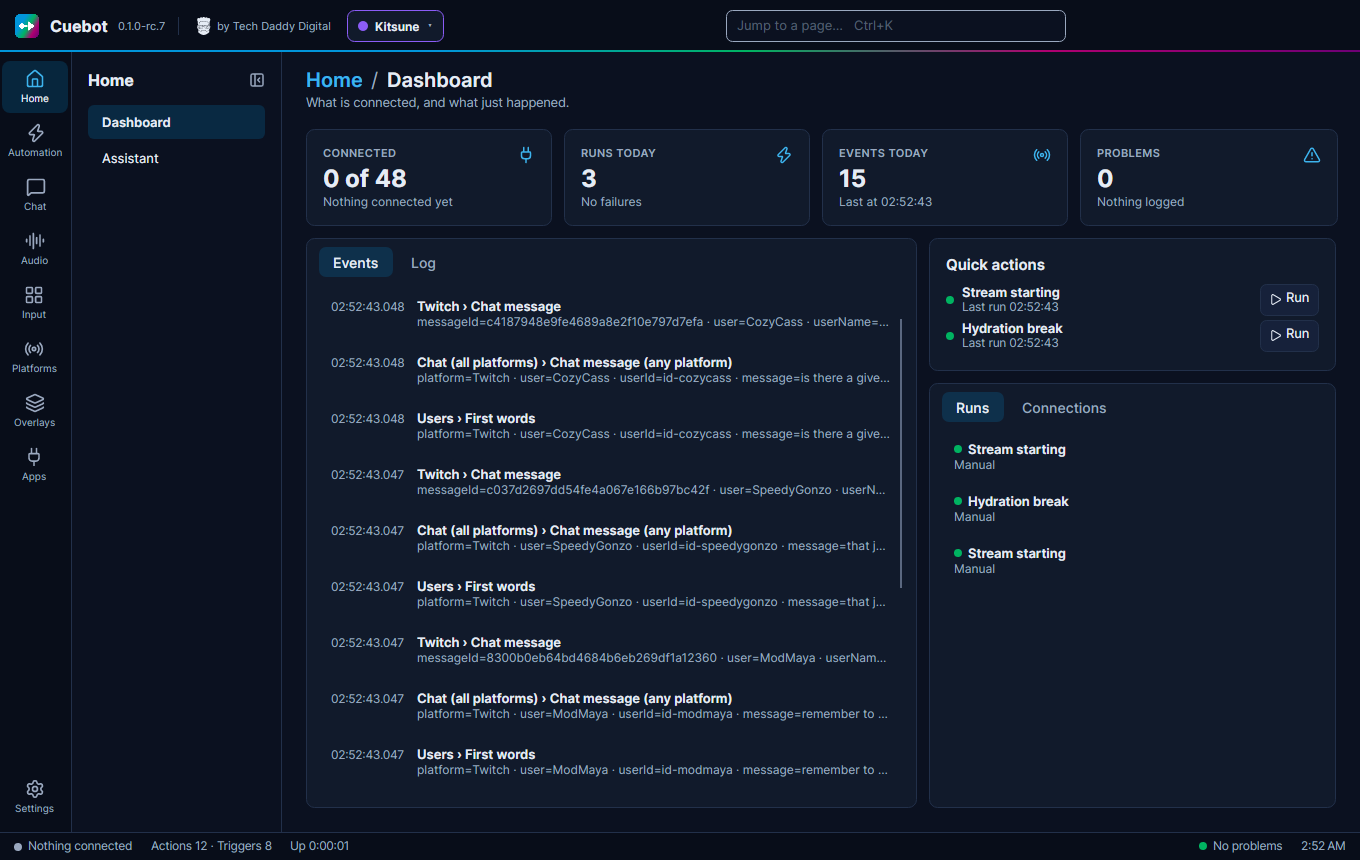
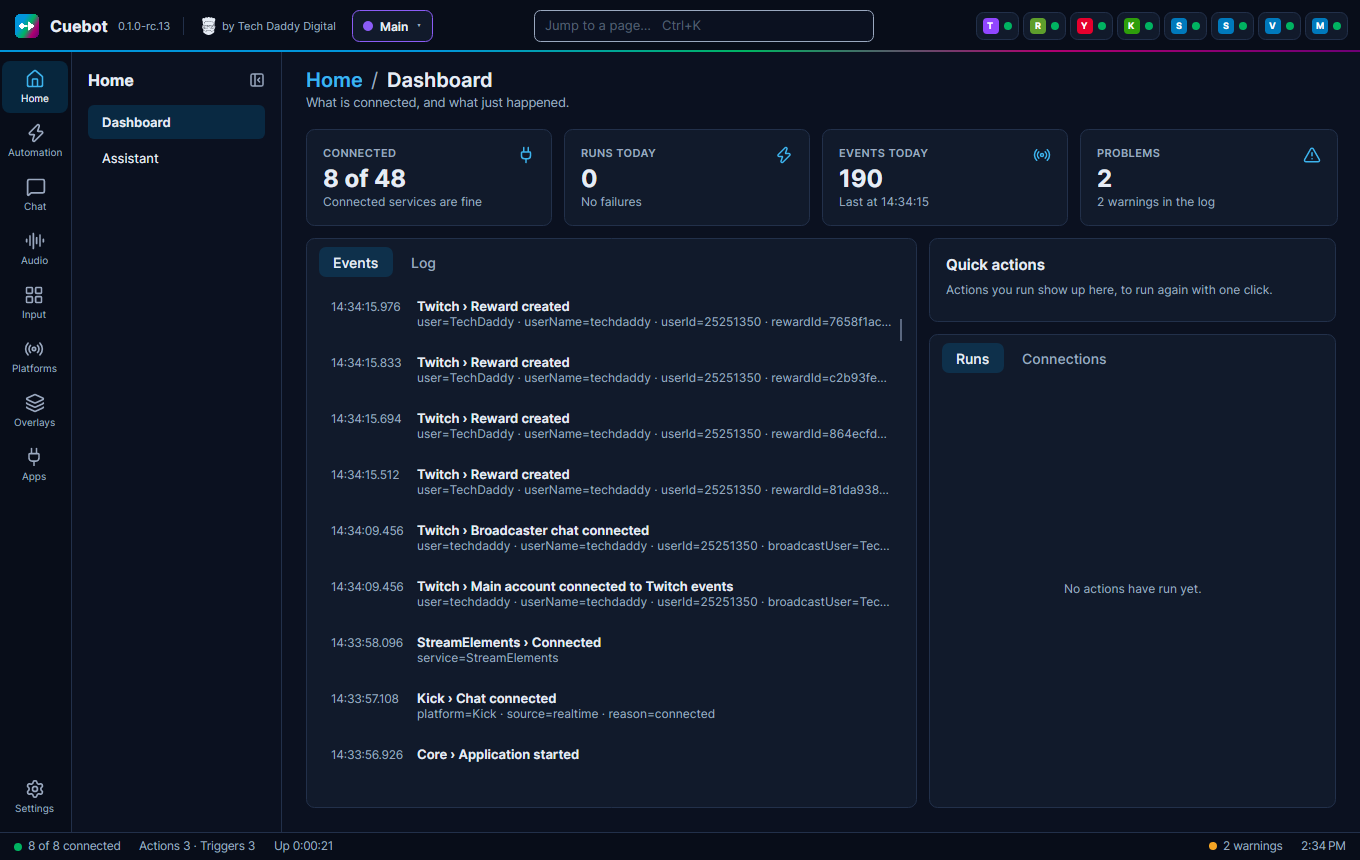
Docs: signed-in screenshots; top bar connection chips no longer overflow
Screenshots:
- New pictures taken with a signed-in Cuebot 0.1.0-rc.13: Twitch
  (techdaddy), Kick (tddigital), YouTube, Rumble, Streamlabs,
  StreamElements and VTube Studio.
- They replace the dashboard, the Twitch page and its tabs, and the
  Kick, YouTube and Rumble pages.
- Also replaced: the Kick rewards, VTube Studio and Streamlabs cards,
  and the Donations page.
- Kris reviewed them before publishing.
- The reward pictures show disabled sample rewards. They were made for
  the pictures and deleted right after; viewers never saw them.

New tests/Cuebot.UiTests/SignedInScreenshots, run by hand with
CUEBOT_SIGNED_IN_DATA and CUEBOT_SCREENSHOT_OUT. It opens a folder
someone signed in to, with the app's keyring key store, and connects
everything. It uses no demo data and runs no actions or fake events, so
nothing reaches the real channels. It saves every page, tab and card.
CUEBOT_SAMPLE_REWARDS=1 adds disabled sample rewards and always deletes
them.

Bug found in those pictures: with 8 connections, the top bar's chips
spilled over the search box and title and hid the profile switcher.
- With more than 4 connections, chips are small badges; the name is in
  the tooltip.
- Chips that still don't fit are clipped.
- The search box can shrink (160 to 340 px).
- A new test checks that the title, search box and badges don't
  overlap with 9 connections.

Also: the Twitch Rewards tab says "This channel has no rewards yet."
instead of "0 of them were created by Cuebot".
[…]

diff --git a/tests/Cuebot.UiTests/SignedInScreenshots.cs b/tests/Cuebot.UiTests/SignedInScreenshots.cs
@@ -1,0 +1,128 @@
+using Avalonia.Controls;
+using Avalonia.Headless.XUnit;
+using Avalonia.VisualTree;
+using Cuebot.App;
+using Cuebot.App.ViewModels;
+using Cuebot.App.Views;
+using Cuebot.Core;
+using static Cuebot.UiTests.DocsScreenshots;
+
+namespace Cuebot.UiTests;
+
+/// <summary>
+/// Documentation screenshots of a signed-in Cuebot: platform pages with a real channel, real rewards and connected
+/// services. Run by hand against a data folder where someone signed in (never a streamer's everyday folder):
+/// CUEBOT_SIGNED_IN_DATA=&lt;data folder&gt; CUEBOT_SCREENSHOT_OUT=&lt;empty folder&gt;. Every page, tab and card is saved
+/// there to pick from. No demo data, no fake events and no actions are run, so nothing reaches the real channels;
+/// connecting is the same as starting Cuebot. With CUEBOT_SAMPLE_REWARDS=1 a few disabled sample rewards are made on
+/// Twitch and Kick for the reward pictures (viewers never see disabled rewards) and deleted again at the end.
+/// </summary>
+public sealed class SignedInScreenshots
+{
+    [AvaloniaFact]
+    public void Write_the_signed_in_screenshots()
+    {
+        var data = Environment.GetEnvironmentVariable("CUEBOT_SIGNED_IN_DATA");
+        var output = Environment.GetEnvironmentVariable("CUEBOT_SCREENSHOT_OUT");
+        Assert.SkipWhen(string.IsNullOrEmpty(data) || string.IsNullOrEmpty(output),
+            "Set CUEBOT_SIGNED_IN_DATA and CUEBOT_SCREENSHOT_OUT to take signed-in screenshots");
+        Directory.CreateDirectory(output!);
+        // Read the sign-ins the way the app does (Program.cs): the folder's and profiles' keys are in the desktop keyring.
+        // With the tests' default (a key file) the store would not open, and Cuebot sets an unreadable store aside.
+        var root = Path.GetFullPath(data!);
+        var profilesRoot = Path.Combine(root, Cuebot.Core.Profiles.ProfileCatalog.FolderName) + Path.DirectorySeparatorChar;
+        var protector = Cuebot.Core.Storage.SecretStore.ProtectorFor;
+        Cuebot.Core.Storage.SecretStore.ProtectorFor = folder => folder == root || folder.StartsWith(profilesRoot, StringComparison.Ordinal)
+            ? new Cuebot.App.Platform.SecretServiceKeyProtector(m => throw new InvalidOperationException("Keyring: " + m))
+            : protector(folder);
+        var docs = OutputDir;
+        OutputDir = output!;
+        var samples = new List<(Cuebot.Core.Rewards.IChannelRewards Platform, string Id)>();
+        var profiles = Cuebot.Core.Profiles.ProfileCatalog.Open(data!);
+        var host = AppHost.Create(new AppPaths(profiles.ActiveFolder, data!));
+        try
+        {
+            var vm = new MainWindowViewModel(host, new Cuebot.App.Shell.DetachedShellHost(host.Settings, profiles));
+            var window = new MainWindow { DataContext = vm, Width = 1360, Height = 860 };
+            window.Show();
+            Pump();
+
+            Wait(Task.Run(host.StartAsync));
+            for (var i = 0; i < 60; i++) Settle();   // about 20 s for the platforms and services to connect
+            var vts = host.Get<Cuebot.Integrations.VTubeStudio.VTubeStudioService>();
+            if (!vts.IsConnected) Wait(Task.Run(() => vts.ConnectAsync()));   // its saved token: no pop-up
+            if (Environment.GetEnvironmentVariable("CUEBOT_SAMPLE_REWARDS") == "1") Wait(Task.Run(() => AddSamples(host, samples)));
+
+            foreach (var page in vm.Pages)
+            {
+                if (page is TwitchViewModel twitch)
+                {
+                    Wait(twitch.Rewards.ReloadCommand.ExecuteAsync(null));
+                    twitch.Rewards.Selected = twitch.Rewards.Rewards.FirstOrDefault(r => r.IsManageable) ?? twitch.Rewards.Rewards.FirstOrDefault();
+                    Wait(twitch.PowerUps.ReloadCommand.ExecuteAsync(null));
+                }
+                else if (page is Cuebot.App.ViewModels.Kick.KickViewModel kick)
+                {
+                    Wait(kick.RewardEditor.ReloadCommand.ExecuteAsync(null));
+                    kick.RewardEditor.Selected = kick.RewardEditor.Rewards.FirstOrDefault(r => r.MadeByCuebot) ?? kick.RewardEditor.Rewards.FirstOrDefault();
+                }
+            }
+            Settle();
+
+            var cards = new HashSet<string>();
+            foreach (var page in vm.Pages)
+            {
+                vm.SelectedPage = page;
+                Settle();
+                Save(window, "page-" + Slug(page.Title));
+                var tabs = window.GetVisualDescendants().OfType<TabControl>().FirstOrDefault()?.Items.OfType<TabItem>()
+                    .Where(t => t.Header is string && t.IsVisible).ToList() ?? [];
+                if (tabs.Count == 0) SaveCards(window, cards);
+                foreach (var tab in tabs)
+                {
+                    tab.IsSelected = true;
+                    Settle();
+                    Save(window, "tab-" + FileSlug(page.Title) + "-" + FileSlug((string)tab.Header!));
+                    SaveCards(window, cards);
+                }
+            }
+            window.Close();
+        }
+        finally
+        {
+            foreach (var (platform, id) in samples)
+            {
+                try { Wait(platform.DeleteAsync(id)); }
+                catch (Exception e) { Console.Error.WriteLine($"Could not delete the sample {platform.Name} reward {id}: {e.Message}"); }
+            }
+            OutputDir = docs;
+            Cuebot.Core.Storage.SecretStore.ProtectorFor = protector;
+            Wait(host.DisposeAsync().AsTask());   // saves refreshed sign-ins back to the folder
+        }
+    }
+
+    /// <summary>Disabled sample rewards on each signed-in platform, remembered so they are deleted afterwards.</summary>
+    private static async Task AddSamples(AppHost host, List<(Cuebot.Core.Rewards.IChannelRewards Platform, string Id)> made)
+    {
+        (string Title, string Text, int Cost, bool Input, int Cooldown)[] samples =
+        [
+            ("Hydrate!", "Make the streamer drink some water", 100, false, 0),
+            ("Bonk", "Bonk the streamer", 250, false, 30),
+            ("Song request", "Paste a song link", 500, true, 0),
+            ("Posture check", "Sit up straight!", 300, false, 60),
+        ];
+        foreach (var platform in host.Get<IEnumerable<Cuebot.Core.Rewards.IChannelRewards>>().Where(p => p.Ready))
+            foreach (var s in samples)
+            {
+                var reward = new Cuebot.Core.Rewards.ChannelReward("", s.Title, s.Text, s.Cost, "", Enabled: false, Paused: false, UserInput: s.Input,
+                    SkipQueue: false, 0, 0, platform.Rules.HasCooldown ? s.Cooldown : 0, null);
+                made.Add((platform, (await platform.CreateAsync(reward)).Id));
+            }
+    }
+
+    private static void Wait(Task task)
+    {
+        while (!task.IsCompleted) Settle();
+        task.GetAwaiter().GetResult();
+    }
+}

diff --git a/tests/Cuebot.UiTests/SidebarConnectionsTests.cs b/tests/Cuebot.UiTests/SidebarConnectionsTests.cs
@@ -1,9 +1,15 @@
+using Avalonia;
+using Avalonia.Controls;
 using Avalonia.Headless.XUnit;
+using Avalonia.VisualTree;
+using Cuebot.App;
+using Cuebot.App.Views;
 using Avalonia.Threading;
 using Cuebot.App.ViewModels;
 using Cuebot.Core;
 using Cuebot.Core.Actions;
 using Cuebot.Core.Logging;
+using Cuebot.UiTests.Speech;
 using Microsoft.Extensions.DependencyInjection;
 
 namespace Cuebot.UiTests;
@@ -52,5 +58,34 @@ public class SidebarConnectionsTests
         meld.Set(ConnectionState.Error);
         Dispatcher.UIThread.RunJobs();
         Assert.Equal(["Twitch", "Meld Studio"], dashboard.SidebarConnections.Select(c => c.Name));
+    }
+
+    [AvaloniaFact]
+    public async Task Many_connections_become_small_badges_that_never_cover_the_title_or_the_search_box()
+    {
+        string[] names = ["Twitch", "YouTube", "Kick", "Rumble", "Streamlabs", "StreamElements", "VTube Studio", "Mod portal relay", "OBS"];
+        var fakes = names.Select(n => new FakeConnection(n)).ToArray();
+        var data = Directory.CreateTempSubdirectory("cuebot-chips-").FullName;
+        await using var host = AppHost.Create(new AppPaths(data), overrides: s =>
+        {
+            foreach (var f in fakes) s.AddSingleton<IConnectionStatus>(f);
+        });
+        var vm = new MainWindowViewModel(host);
+        var window = new MainWindow { DataContext = vm, Width = 1360, Height = 860 };
+        window.Show();
+        foreach (var f in fakes) f.Set(ConnectionState.Connected);
+        DocsScreenshots.Settle();
+
+        Assert.True(vm.Dashboard.CompactChips);
+        var compact = window.GetVisualDescendants().OfType<ItemsControl>().Single(i => i.Name == "CompactChips");
+        Assert.True(compact.IsEffectivelyVisible);
+        Assert.False(window.GetVisualDescendants().OfType<ItemsControl>().Single(i => i.Name == "Chips").IsEffectivelyVisible);
+        double Left(Visual v) => v.TranslatePoint(new Point(0, 0), window)!.Value.X;
+        var title = window.GetVisualDescendants().OfType<Button>().Single(b => b.Name == "TddMark");
+        var jump = window.GetVisualDescendants().OfType<AutoCompleteBox>().Single(b => b.Name == "Jump");
+        Assert.True(Left(title) + title.Bounds.Width <= Left(jump), "the search box covers the title");
+        Assert.True(Left(jump) + jump.Bounds.Width <= Left(compact), "the badges cover the search box");
+        UiPump.Save(window, "topbar-many-connections");
+        window.Close();
     }
 }

diff --git a/tests/Cuebot.UiTests/DocsScreenshots.cs b/tests/Cuebot.UiTests/DocsScreenshots.cs
@@ -24,7 +24,8 @@ namespace Cuebot.UiTests;
 /// </summary>
 public sealed class DocsScreenshots : IAsyncDisposable
 {
-    private static readonly string OutputDir = Path.Combine(RepoRoot(), "website", "docs", "assets", "screens");
+    /// <summary>Where pictures go; <see cref="SignedInScreenshots"/> points it elsewhere.</summary>
+    internal static string OutputDir = Path.Combine(RepoRoot(), "website", "docs", "assets", "screens");
 
     private readonly string _dataDir = Directory.CreateTempSubdirectory("cuebot-docs-shots-").FullName;
     private readonly AppHost _host;
@@ -267,7 +268,7 @@ public sealed class DocsScreenshots : IAsyncDisposable
     }
 
     /// <summary>Opens the tab with this header on the current page (only that page is in the window). Fails when there is none, so the list stays right.</summary>
-    private static void SelectTab(Window window, string header)
+    internal static void SelectTab(Window window, string header)
     {
         var tab = window.GetVisualDescendants().OfType<TabItem>().FirstOrDefault(t => Equals(t.Header, header))
                   ?? throw new InvalidOperationException($"No tab \"{header}\" among: " + string.Join(", ",
@@ -338,7 +339,7 @@ public sealed class DocsScreenshots : IAsyncDisposable
         string.Join('-', title.ToLowerInvariant().Split([' ', '&', '/', '.'], StringSplitOptions.RemoveEmptyEntries));
 
     /// <summary>Saves every visible card that has a heading (class h2) as card-&lt;heading&gt;.png, once per run.</summary>
-    private static void SaveCards(Window window, HashSet<string> done)
+    internal static void SaveCards(Window window, HashSet<string> done)
     {
         var height = window.Height;
         window.Height = 3600;

diff --git a/src/Cuebot.App/ViewModels/DashboardViewModel.cs b/src/Cuebot.App/ViewModels/DashboardViewModel.cs
@@ -73,6 +73,14 @@ public sealed partial class DashboardViewModel : PageViewModel
 
     public bool HasSidebarConnections => SidebarConnections.Count > 0;
 
+    /// <summary>Chips with names fit the top bar up to this many; more are shown as small badges (name in the tooltip).</summary>
+    public const int FullChips = 4;
+
+    /// <summary>The top bar shows small badges instead of named chips (more than <see cref="FullChips"/> connections).</summary>
+    public bool CompactChips => SidebarConnections.Count > FullChips;
+
+    public bool FullChipsShown => HasSidebarConnections && !CompactChips;
+
     private void RefreshSidebar()
     {
         OnPropertyChanged(nameof(ConnectedCount));
@@ -83,6 +91,8 @@ public sealed partial class DashboardViewModel : PageViewModel
         SidebarConnections.Clear();
         foreach (var c in wanted) SidebarConnections.Add(c);
         OnPropertyChanged(nameof(HasSidebarConnections));
+        OnPropertyChanged(nameof(CompactChips));
+        OnPropertyChanged(nameof(FullChipsShown));
     }
 
     // ===== Status tiles =====

diff --git a/src/Cuebot.App/ViewModels/Twitch/TwitchRewardsViewModel.cs b/src/Cuebot.App/ViewModels/Twitch/TwitchRewardsViewModel.cs
@@ -165,7 +165,8 @@ public sealed partial class TwitchRewardsViewModel(TwitchService twitch) : Twitc
         Rewards.Clear();
         foreach (var reward in rewards.OrderBy(r => r.Cost)) Rewards.Add(new TwitchRewardItem(reward, Api.Counters));
         Count();
-        Info = $"{rewards.Count(r => r.IsManageable)} of them were created by Cuebot and can be edited here.";
+        Info = rewards.Count == 0 ? "This channel has no rewards yet."
+            : $"{rewards.Count(r => r.IsManageable)} of them were created by Cuebot and can be edited here.";
     });
 
     [RelayCommand]

diff --git a/website/docs/guides/start/first-five-minutes.md b/website/docs/guides/start/first-five-minutes.md
@@ -19,7 +19,8 @@ are listed next to it.
 Two handy things:
 
 - Press ++ctrl+k++ (or click "Jump to a page…" at the top) and type a page name, like "timers", to jump there.
-- The top bar shows a small chip for each thing that is connected, like Twitch or OBS.
+- The top bar shows a small chip for each thing that is connected, like Twitch or OBS. With more than four, the chips
+  shrink to a coloured letter and a dot; hover one to see its name and status.
 
 Cuebot saves your changes by itself, a moment after you make them. ++ctrl+s++ saves everything right away.
 
